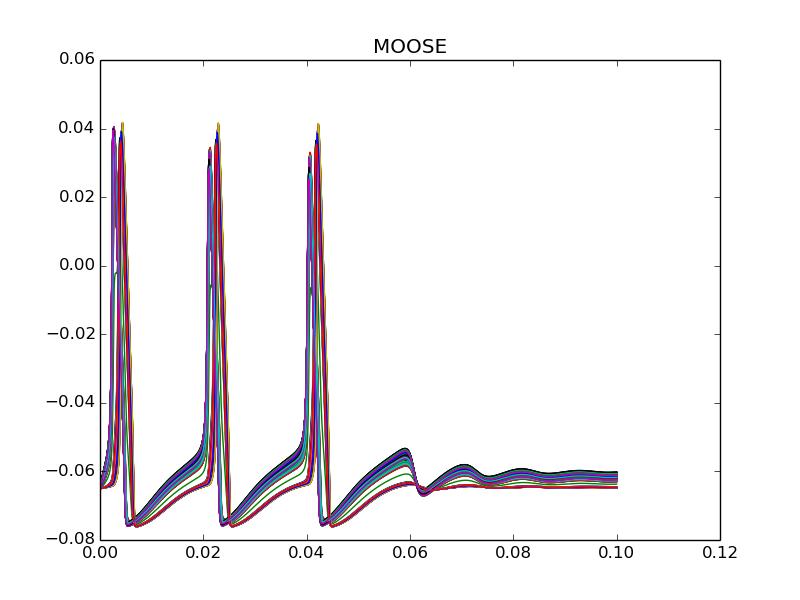
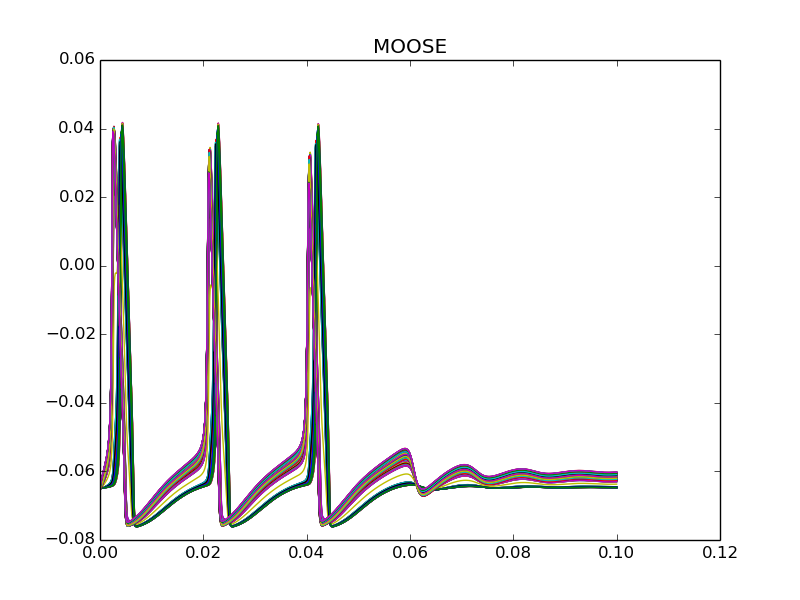
Some more changes but equivalence is lost. Getting notepal commit for comparision.

Changed region(s): [[0.125, 0.21, 0.7812, 0.9]]

diff --git a/moose_nrn_equivalence_testing/comparision_with_simple_HH_model/compare.py b/moose_nrn_equivalence_testing/comparision_with_simple_HH_model/compare.py
@@ -41,8 +41,6 @@ def compare(mooseCsv, nrnCsv):
 
     nrnTimeVec, nrnData = nrnData[0], nrnData[1:]
     mooseTimeVec, mooseData = mooseData[0], mooseData[1:]
-    print nrnTimeVec
-    assert np.allclose(nrnTimeVec, mooseTimeVec), mooseTimeVec - nrnTimeVec
     for i, comptName in enumerate(nrnHeader[1:]):
         if i == 1:
             break 
@@ -50,23 +48,11 @@ def compare(mooseCsv, nrnCsv):
         mooseComptId, mooseComptName = get_index(nrnComptName, mooseHeader[1:])
         print("%s %s- moose equivalent %s %s" % (i, nrnComptName, mooseComptId,
             mooseComptName))
-        pylab.plot(nrnTimeVec, nrnData[i] - mooseData[mooseComptId],
-                label="neuron-%s, moose-%s" % (comptName, mooseComptName))
+        pylab.plot(mooseTimeVec, mooseData[ mooseComptId ], label = "Neuron: " + nrnComptName)
+        pylab.plot(nrnTimeVec, nrnData[i], label = "MOOSE: " + mooseComptName)
     pylab.legend(loc='best', framealpha=0.4)
     pylab.show()
 
-
-#   mooseList = mooseHeader.split(",")
-    #for i, row in enumerate(nrnHeader.split(",")):
-        #comptID = row.replace("table_", "")
-        #mooseId = get_index(comptID, mooseList)
-        #mooseVec = get_vector(mooseId, mooseData)
-        #nrnVec = get_vector(i, nrnData)
-        #data_[comptID] = (mooseVec, nrnVec)
-
-    #for k in data_:
-        #mooseVec, nrnVec = data_[k]
-        #print len(mooseVec), len(nrnVec)
 
 def main():
     mooseFile = sys.argv[1]
